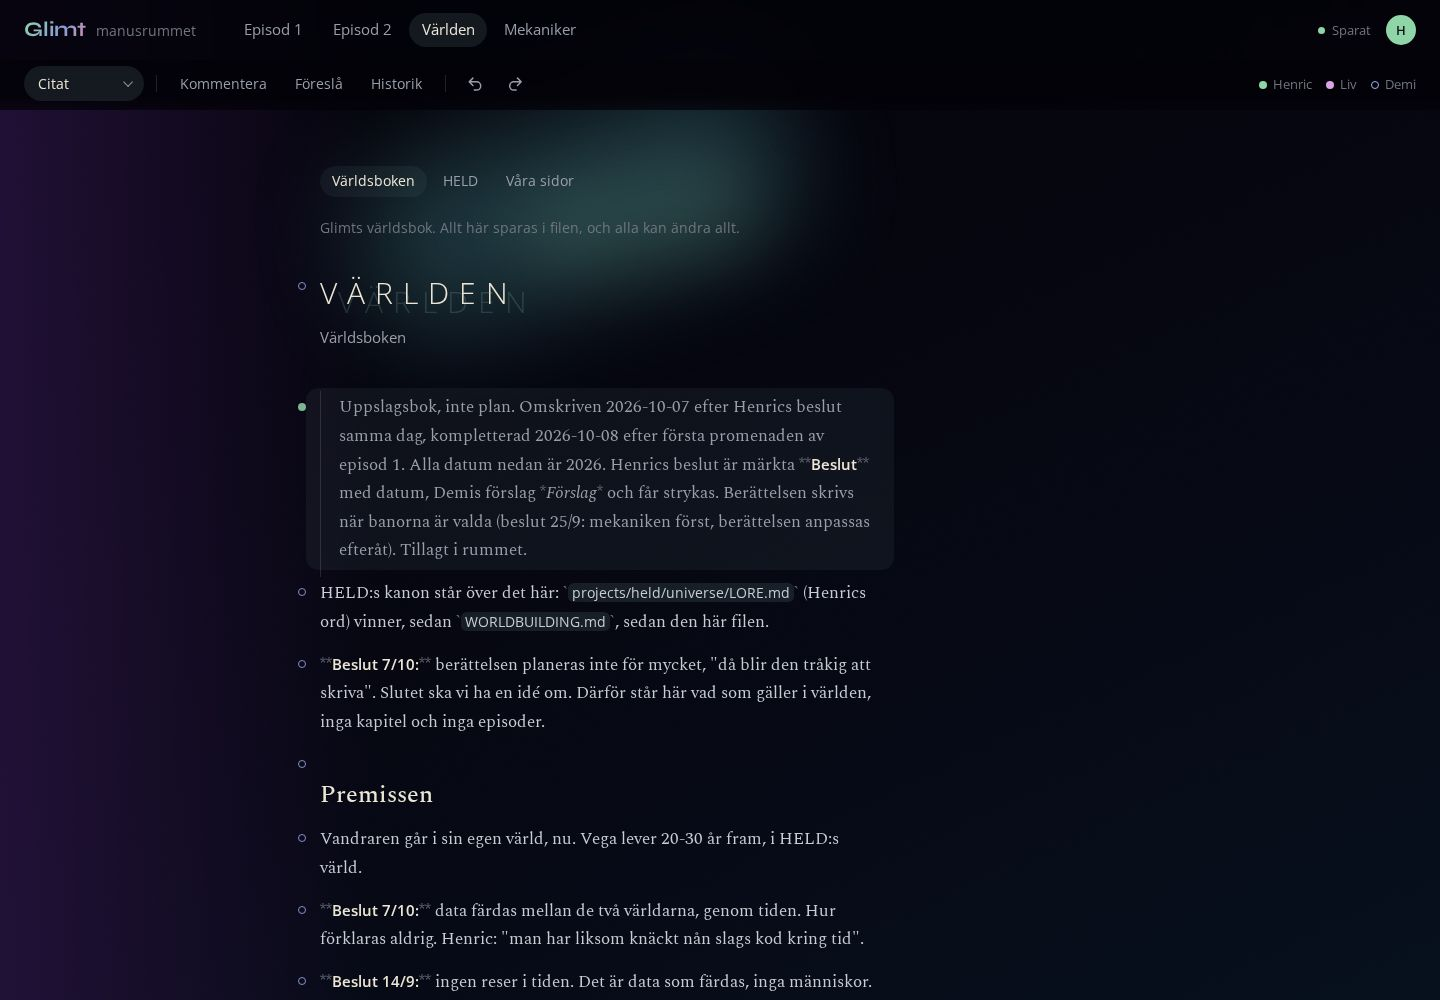
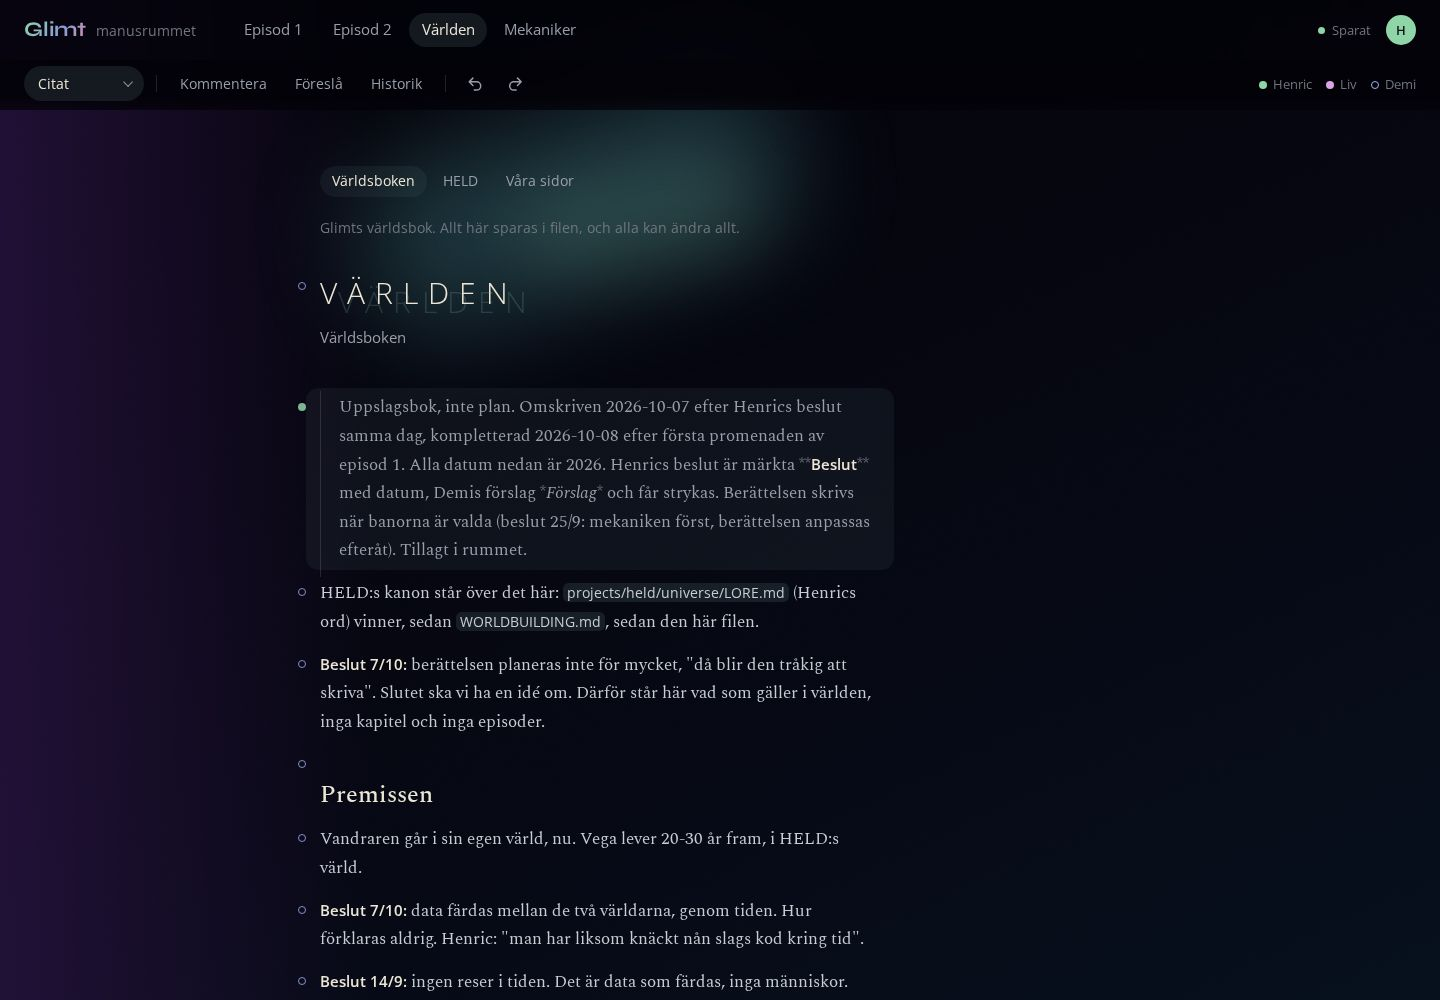
Show bold and italic marks only where the cursor is
The stars around bold text are part of the md line, so they stay in the text, but they are out of sight in every paragraph except the one being written in. The page then reads as the sketch does.

Changed region(s): [[0.2188, 0.589, 0.5938, 0.682], [0.2188, 0.961, 0.5938, 0.992], [0.2188, 0.899, 0.5625, 0.93]]

diff --git a/rummet/rummet.css b/rummet/rummet.css
@@ -279,6 +279,9 @@ button.av::after { content: ''; position: absolute; inset: -0.6rem; }
 .regi { font-family: var(--sans); font-style: italic; font-size: 0.9em; color: var(--dov); }
 .annan { color: var(--text); }
 .mk { color: var(--svag); }
+/* The marks that make bold and italic are part of the text, and show only in
+   the paragraph being written in. Everywhere else the page reads as the sketch. */
+.ProseMirror .st:not(.har) .mk { font-size: 0; }
 .fet { font-weight: 600; }
 .st:is(.replik, .variant, .stycke) .fet { font-family: var(--sans); font-size: 0.9375rem; color: var(--blad); }
 .kursiv { font-style: italic; }

diff --git a/scripts/test_rummet_browser.py b/scripts/test_rummet_browser.py
@@ -282,6 +282,16 @@ def skrivaren(b, url: str, rot: Path, storlek: str, skarmar: Path | None) -> Non
     ok("sparat" in lage(page), f"{pre} the state says Sparat before anything is typed")
     ok(page.evaluate("document.documentElement.scrollWidth <= innerWidth"), f"{pre} the page never pans sideways")
     skarm("01-start")
+    # Bold in running text: the stars show only where the cursor is.
+    fet = stycke_id(page, "**Vad episoden ska göra:**")
+    bredd = "(id) => { const m = document.querySelector(`.ProseMirror .st[data-id=\"${id}\"] .mk`); return m ? m.getBoundingClientRect().width : -1; }"
+    ok(fet is not None and page.evaluate(bredd, fet) == 0, f"{pre} the marks around bold text are out of sight in a paragraph nobody is in ({page.evaluate(bredd, fet) if fet else None})")
+    markor(page, fet)
+    ok(page.evaluate(bredd, fet) > 0, f"{pre} and show in the paragraph with the cursor")
+    page.keyboard.type("!")
+    page.keyboard.press("Backspace")
+    markor(page, stycke_id(page, "Jag måste få veta en sak"))
+    ok(page.evaluate(bredd, fet) == 0 and F.read_text(encoding="utf-8") == original, f"{pre} leaving it hides them again, and the file is as it was")
 
     # Listen: the ring plays the recording.
     ring = page.locator(".ProseMirror button.ring").first
